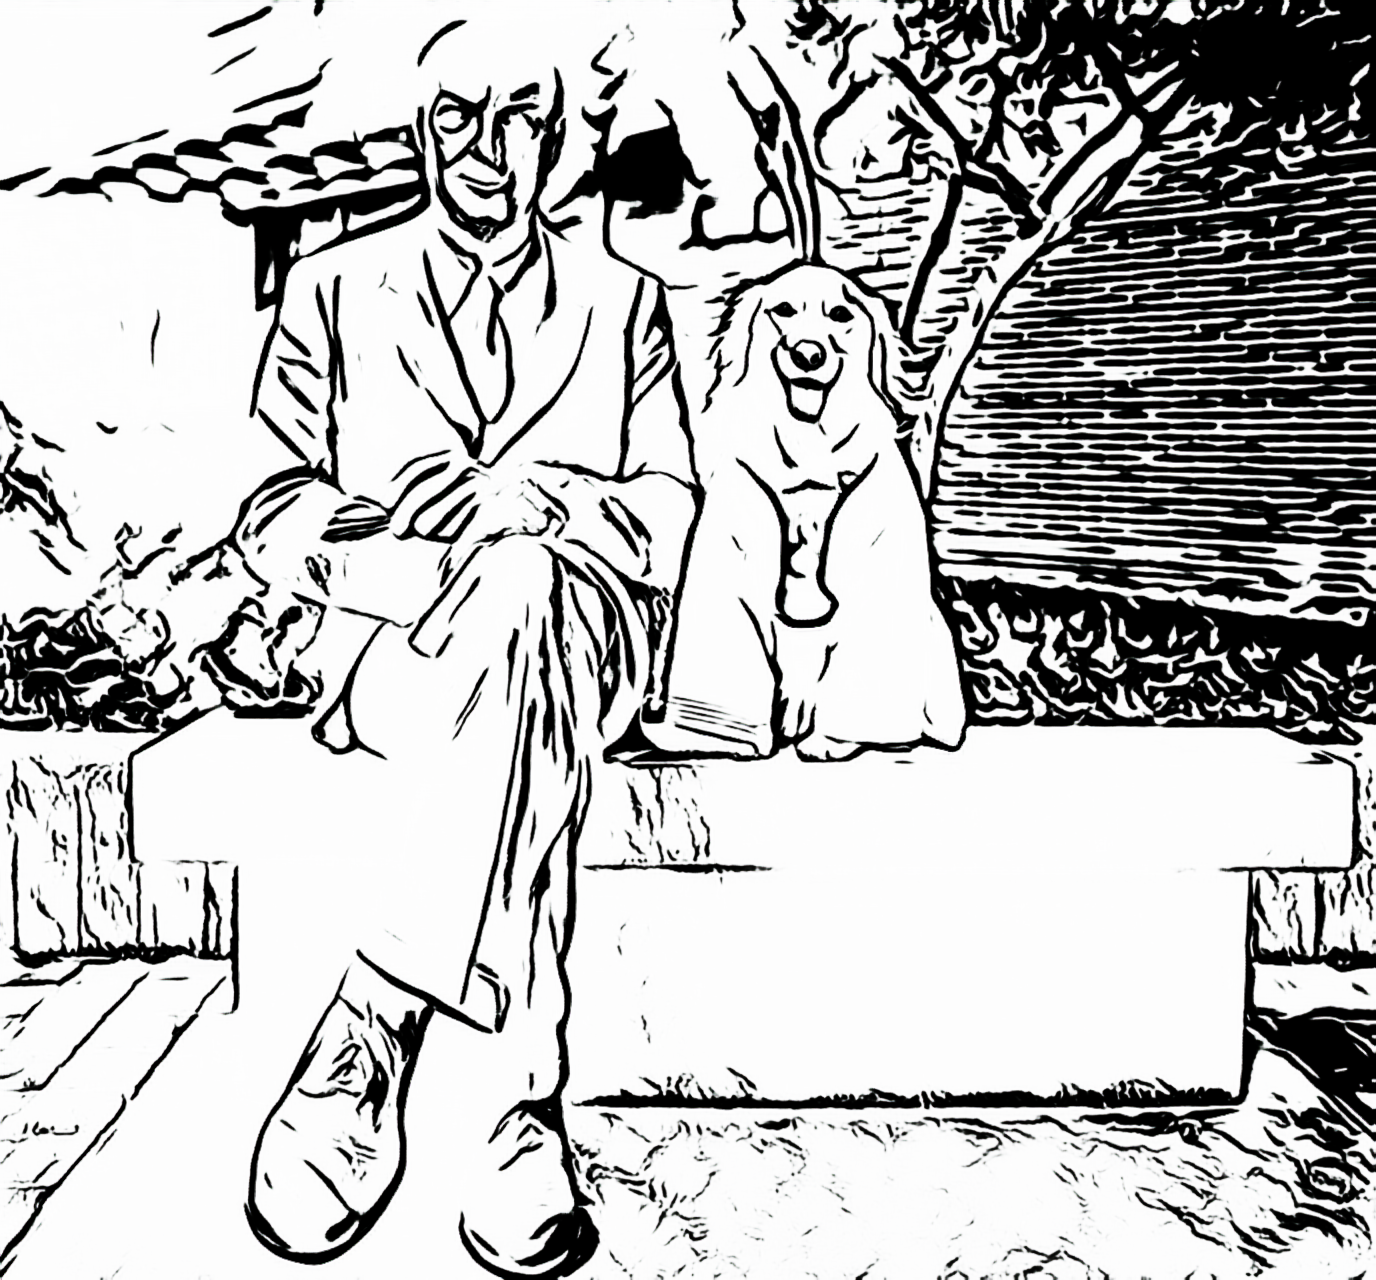
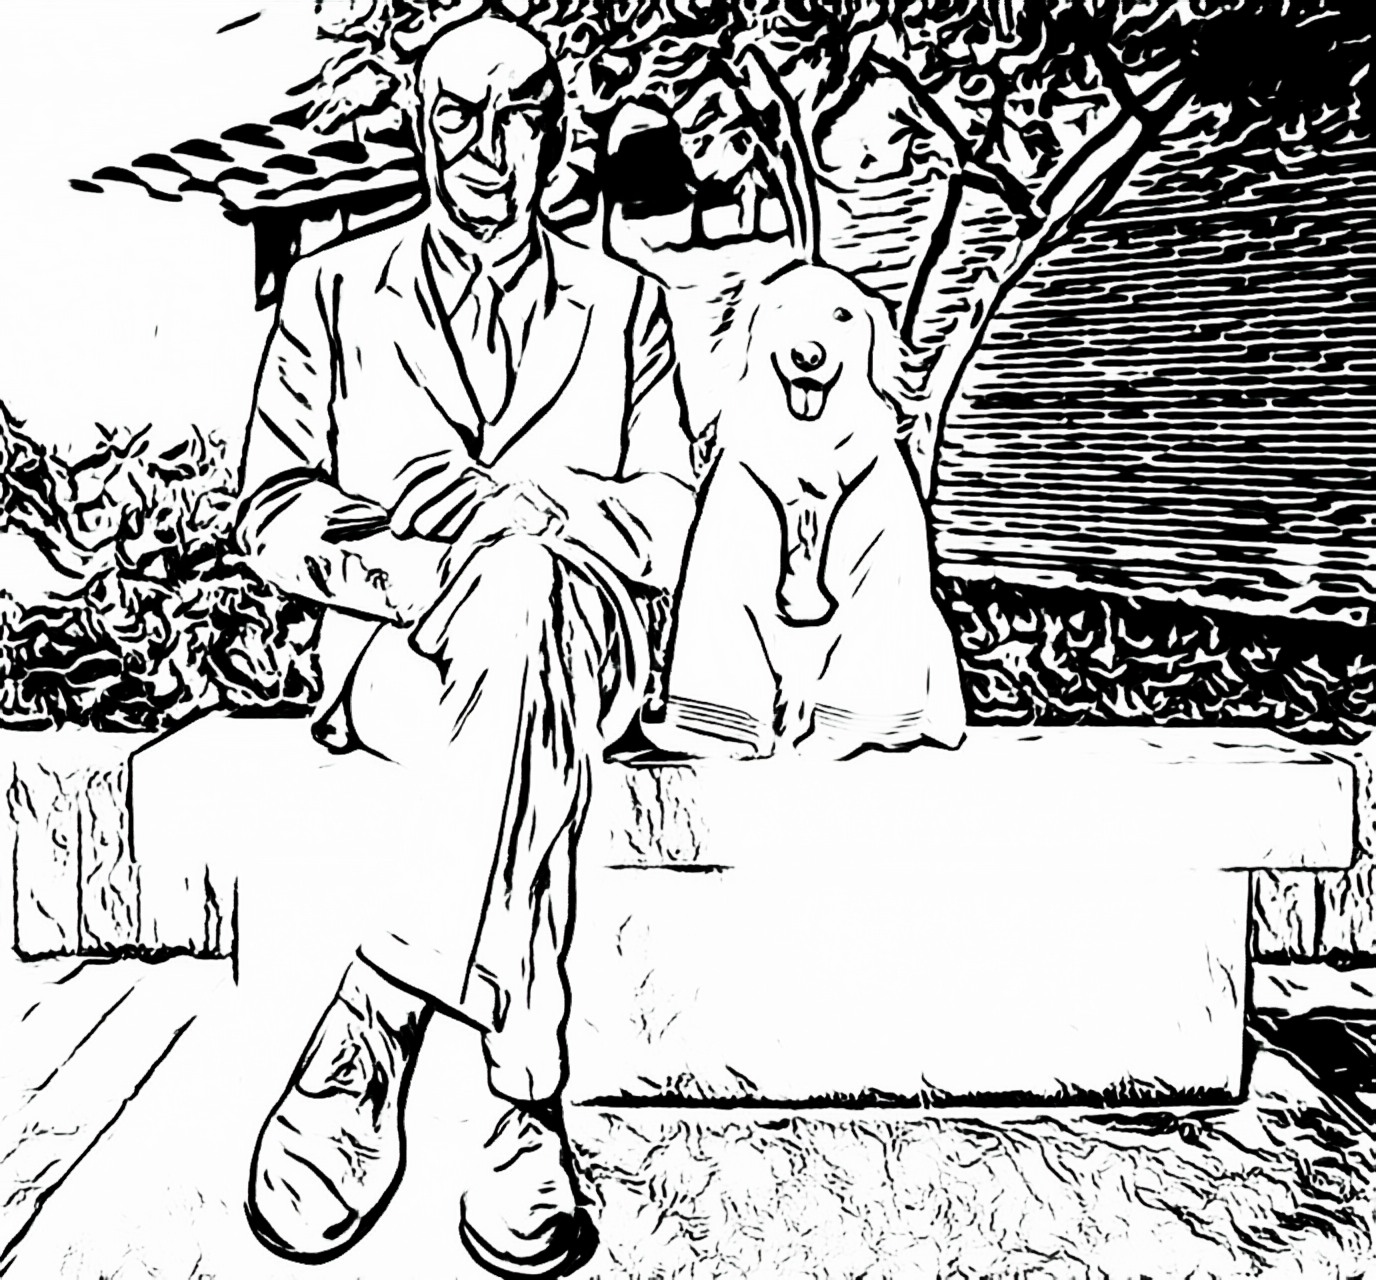
m

diff --git a/portrait.py b/portrait.py
@@ -43,7 +43,7 @@ def brighten_dark_areas(image, alpha=1.2, beta=100):
 if __name__ == "__main__":
 
     anime = AnimeGANv3('models/AnimeGANv3_PortraitSketch.onnx')
-    img_name='jinhan'
+    img_name='me'
     img = cv2.imread('imgs/'+img_name+'.png')
     #convert dark pixels to bright pixels
     gray_image = cv2.cvtColor(img, cv2.COLOR_BGR2GRAY)
